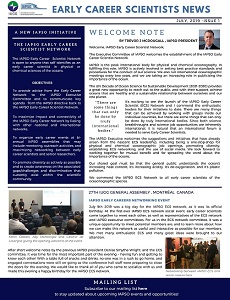
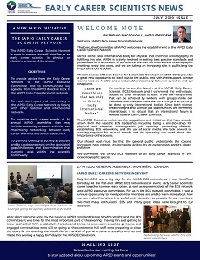
Updating newsletter style and change to 200px horizontal

Changed region(s): [[0.03, 0.0, 0.96, 1.0], [0.99, 0.9231, 1.0, 0.9538]]

diff --git a/css/main.css b/css/main.css
@@ -387,23 +387,15 @@ footer .theme-by {
 
 /* --- Newsletter --- */
 
-.news a:focus,
-.news a:hover {
-  text-decoration: none;
-  color: {{ site.hover-col }};
-}
-
 .news-container {
   position: relative;
-  width: 50%;
+  width: 200px;
 }
 
 .news-image {
   display: block;
-  width: auto;
-  height: 300px;
-  text-align: center;
-  vertical-align: middle;
+  width: 100%;
+  height: auto;
 }
 
 .news-overlay {
@@ -416,15 +408,15 @@ footer .theme-by {
   width: 100%;
   opacity: 0;
   transition: .5s ease;
-  background-color: #008CBA;
+  background-color: #1E8FB4;
 }
 
 .news-container:hover .news-overlay {
-  opacity: 1;
+  opacity: 0.5;
 }
 
 .news-text {
-  color: white;
+  color: #404040;
   font-size: 20px;
   position: absolute;
   top: 50%;

diff --git a/newsletter.md b/newsletter.md
@@ -12,30 +12,24 @@ subtitle: Updates from the IAPSO ECS network
 
 ### November, 2019 | Issue 2
 <div class="news-container">
+  <a title="IAPSO ECS Newsletter, 2019, 2" href="https://www.iapsoecs.org/uploads/newsletter/iapsoecs_newsletter_2019_2.pdf" target='_blank'>
   <img src="https://www.iapsoecs.org/uploads/newsletter/iapsoecs_newsletter_2019_2_thumbnail.jpg" alt="IAPSO ECS Newsletter, 2019, 2" class="news-image">
   <div class="news-overlay">
-    <div class="news-text">Click to download</div>
+    <div class="news-text">Click to download pdf (422 KB)</div>
   </div>
-</div>
-<div>
-  <a class="news" title="IAPSO ECS Newsletter, 2019, 2" href="https://www.iapsoecs.org/uploads/newsletter/iapsoecs_newsletter_2019_2.pdf" target='_blank'>Download pdf (422 KB)</a>
+  </a>
 </div>
 
 
 ### July, 2019 | Issue 1
 <div class="news-container">
-  <a href="https://www.iapsoecs.org/uploads/newsletter/iapsoecs_newsletter_2019_1.pdf" target="_blank">
+  <a title="IAPSO ECS Newsletter, 2019, 1" href="https://www.iapsoecs.org/uploads/newsletter/iapsoecs_newsletter_2019_1.pdf" target="_blank">
   <img src="https://www.iapsoecs.org/uploads/newsletter/iapsoecs_newsletter_2019_1_thumbnail_1.jpg" alt="IAPSO ECS Newsletter, 2019, 1" class="news-image">
-  <div class="news-overlay">
-    <div class="news-text">Click to download</div>
-  </div>
   <img src="https://www.iapsoecs.org/uploads/newsletter/iapsoecs_newsletter_2019_1_thumbnail_2.jpg" alt="IAPSO ECS Newsletter, 2019, 1" class="news-image">
   <div class="news-overlay">
-    <div class="news-text">Click to download</div>
+    <div class="news-text">Click to download pdf (2.13 MB)</div>
   </div>
   </a>
-  <br>
-  <a class="news" title="IAPSO ECS Newsletter, 2019, 1" href="https://www.iapsoecs.org/uploads/newsletter/iapsoecs_newsletter_2019_1.pdf" target='_blank'>Download pdf (2.13 MB)</a>
 </div>
 
 
